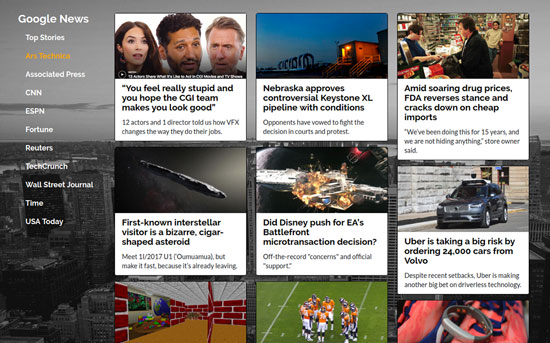
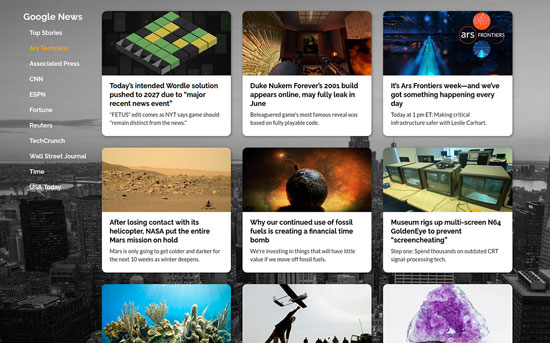
Rewrite some project descriptions and replace image for React Google News

diff --git a/src/projectsData.js b/src/projectsData.js
@@ -18,9 +18,10 @@ export const featuredProjects = [
     image: imgAicExplorer,
     description: "A full stack application to explore artworks from the Art Institute of Chicago. Users can search through the museum's catalog, save artworks to their account, and add artworks to custom collections.",
     bullets: [
-      "Integrated external API with a Rails back end and PostgreSQL database.",
-      "Designed and implemented a React front end to interact with Rails API.",
-      "Used Redux to manage state for the front end."
+      "Leveraged external API to search and display artworks using a Rails back end with the Faraday gem.",
+      "Utilized React to create a responsive single page front end to interact with the Rails API and receive serialized data.",
+      "Implemented ability to save artworks and create collections using React forms, ActiveRecord, and PostgreSQL.",
+      "Used Redux to manage state for the front end and store data received from API requests."
     ],
     url: "https://aic-explorer.herokuapp.com/",
     github: "https://github.com/MitulMistry/art-institute-explorer"
@@ -30,10 +31,10 @@ export const featuredProjects = [
     image: imgStoryplan,
     description: "A web application for writers to plan and share their work-in-progress stories. Users can create stories, chapters, and characters, and differentiate them using genres and target audiences.",
     bullets: [
-      "Built application with Ruby on Rails using MVC pattern and RESTful routes for resources.",
-      "Implemented Devise gem and Facebook OmniAuth for user registration and authentication.",
-      "Created front end with Rails templates and partials, then styled with Bootstrap (HTML, CSS, ERB).",
-      "Wrote comprehensive test suite including unit and integration tests with RSpec and Capybara."
+      "Built an expansive network of RESTful resources including stories and characters using ActiveRecord relationships.",
+      "Developed a high coverage test suite including unit, controller, and integration tests using RSpec and Capybara.",
+      "Implemented user registration and authentication with Facebook using the Devise and OmniAuth gems.",
+      "Utilized AWS S3 and Active Storage to implement user image uploads and allow for scalability of image services."
     ],
     url: "https://rails-storyplan.herokuapp.com/",
     github: "https://github.com/MitulMistry/rails-storyplan"
@@ -41,36 +42,36 @@ export const featuredProjects = [
   {
     title: "The Valley",
     image: imgTheValley,
-    description: "A text adventure system for non-linear storytelling and branching user choices. Keeps track of user's choices and interprets them over the course of the narrative.",
+    description: "A text adventure system for non-linear storytelling and branching user choices.",
     bullets: [
-      "Implemented a text display system using HTML5 Canvas via Phaser, then migrated system to React.",
-      "Integrated Redux store with JavaScript game management classes to maintain and update game state and data.",
-      "Designed a story production pipeline for CSV to JSON files which are then parsed in game."
+      "Integrated Redux store with custom JavaScript game management classes to maintain and update game state.",
+      "Designed a story production pipeline for CSV to JSON files which are then parsed and loaded in game.",
+      "Utilized Redux, JSON story files, and classes to keep track of choices and interpret them throughout the narrative."
     ],
     url: "https://the-valley.herokuapp.com/",
     github: "https://github.com/MitulMistry/the-valley-react"
-  },
-  {
-    title: "Steam Navigator",
-    image: imgSteamNavigator,
-    description: "A front end AngularJS web application for viewing the Steam Store. Displays games for currently trending categories and in-depth storefront info for individual games.",
-    bullets: [
-      "Developed a Node and Express back end to interact with external API.",
-      "Implemented AngularJS Material for layout and styling."
-    ],
-    url: "https://steam-navigator.herokuapp.com/",
-    github: "https://github.com/MitulMistry/steam-navigator"
   },
   {
     title: "React Google News",
     image: imgGoogleNews,
     description: "A React front end application using the Google News API. Displays news stories from different sources in a reflowable card grid structure.",
     bullets: [
-      "Developed a Node and Express back end to interact with external API.",
-      "Used Webpack with custom configurations to build project."
+      "Developed a simple Node and Express back end to interact with external API and reroute responses to the front end.",
+      "Used Webpack with custom configurations using Webpack-Merge to build project for development and production."
     ],
     url: "https://react-google-news.herokuapp.com/",
     github: "https://github.com/MitulMistry/react-google-news"
+  },
+  {
+    title: "Steam Navigator",
+    image: imgSteamNavigator,
+    description: "A front end AngularJS web application for viewing the Steam Store using the Storefront API. Displays games for currently trending categories and in-depth product info for individual games.",
+    bullets: [
+      "Migrated legacy code for AngularJS into a modern Webpack build process to improve performance and maintainability.",
+      "Implemented AngularJS Material for layout and styling to achieve a unified, professional aesthetic."
+    ],
+    url: "https://steam-navigator.herokuapp.com/",
+    github: "https://github.com/MitulMistry/steam-navigator"
   },
   {
     title: "Paper Trader",
@@ -99,7 +100,7 @@ export const featuredProjects = [
     image: imgSketchbook,
     description: "A Rails/AngularJS web application for artists to curate and share their sketches. Users can upload images and filter them based on tags.",
     bullets: [
-      "Developed a Rails back end configured as an API using ActiveModel Serializers.",
+      "Developed a Rails back end configured as an API using serializers to enable asynchronous CRUD requests for the front end.",
       "Implemented Active Storage and integrated with AngularJS to handle image uploading, along with AWS S3 for production."
     ],
     url: "https://angular-sketchbook.herokuapp.com/",
@@ -124,7 +125,7 @@ export const projectCards = [
   {
     title: "Steam Top Sellers CLI Gem",
     image: imgCmd,
-    description: "A Ruby command line application to get the current top selling games on Steam. Users can list currently top selling games and get more info on individuals. Queries Steam API and parses JSON responses into custom classes.",
+    description: "A Ruby command line application to get the current top selling games on Steam. Users can list currently top selling games and get more info on individual products. Queries Steam Storefront API and parses JSON responses into custom classes using an object-oriented paradigm.",
     github: "https://github.com/MitulMistry/steam-top-sellers-cli-gem"
   }
 ]

diff --git a/src/appData.js b/src/appData.js
@@ -1,7 +1,7 @@
 module.exports = {
   profileText: {
     name: "Mitul Mistry",
-    title: "Full Stack Web Developer",
+    title: "Web Developer",
     subtitle: "I'm a software engineer with experience in Rails and React.",
     bio: [
       "I take web applications from design to implementation and I'm comfortable working in both the front and back end.",
@@ -19,11 +19,11 @@ module.exports = {
   },
 
   techSkillsText: {
-    "Languages": "JavaScript, Ruby, Python, HTML/CSS/Sass, C",
-    "Frameworks": "Ruby on Rails, React, AngularJS, Django, Flask",
-    "Databases": "PostgreSQL, SQLite",
-    "Tools": "jQuery, ActiveRecord, Git, Github, Bootstrap, Heroku, Webpack",
-    "Concepts": "Object-oriented programming, AJAX, RESTful architecture/APIs",
+    "Languages": "JavaScript, Ruby, Python, C, HTML5/CSS3/Sass",
+    "Frameworks": "Ruby on Rails, React, Redux, AngularJS, Django, Node",
+    "Databases": "PostgreSQL, SQLite, MongoDB",
+    "Tools": "jQuery, Git, Webpack, Docker, GraphQL, Bootstrap",
+    "Concepts": "Object-oriented programming, AJAX, RESTful architecture/APIs, TDD",
     "Software": "Linux, Photoshop, Illustrator"
   },
 
